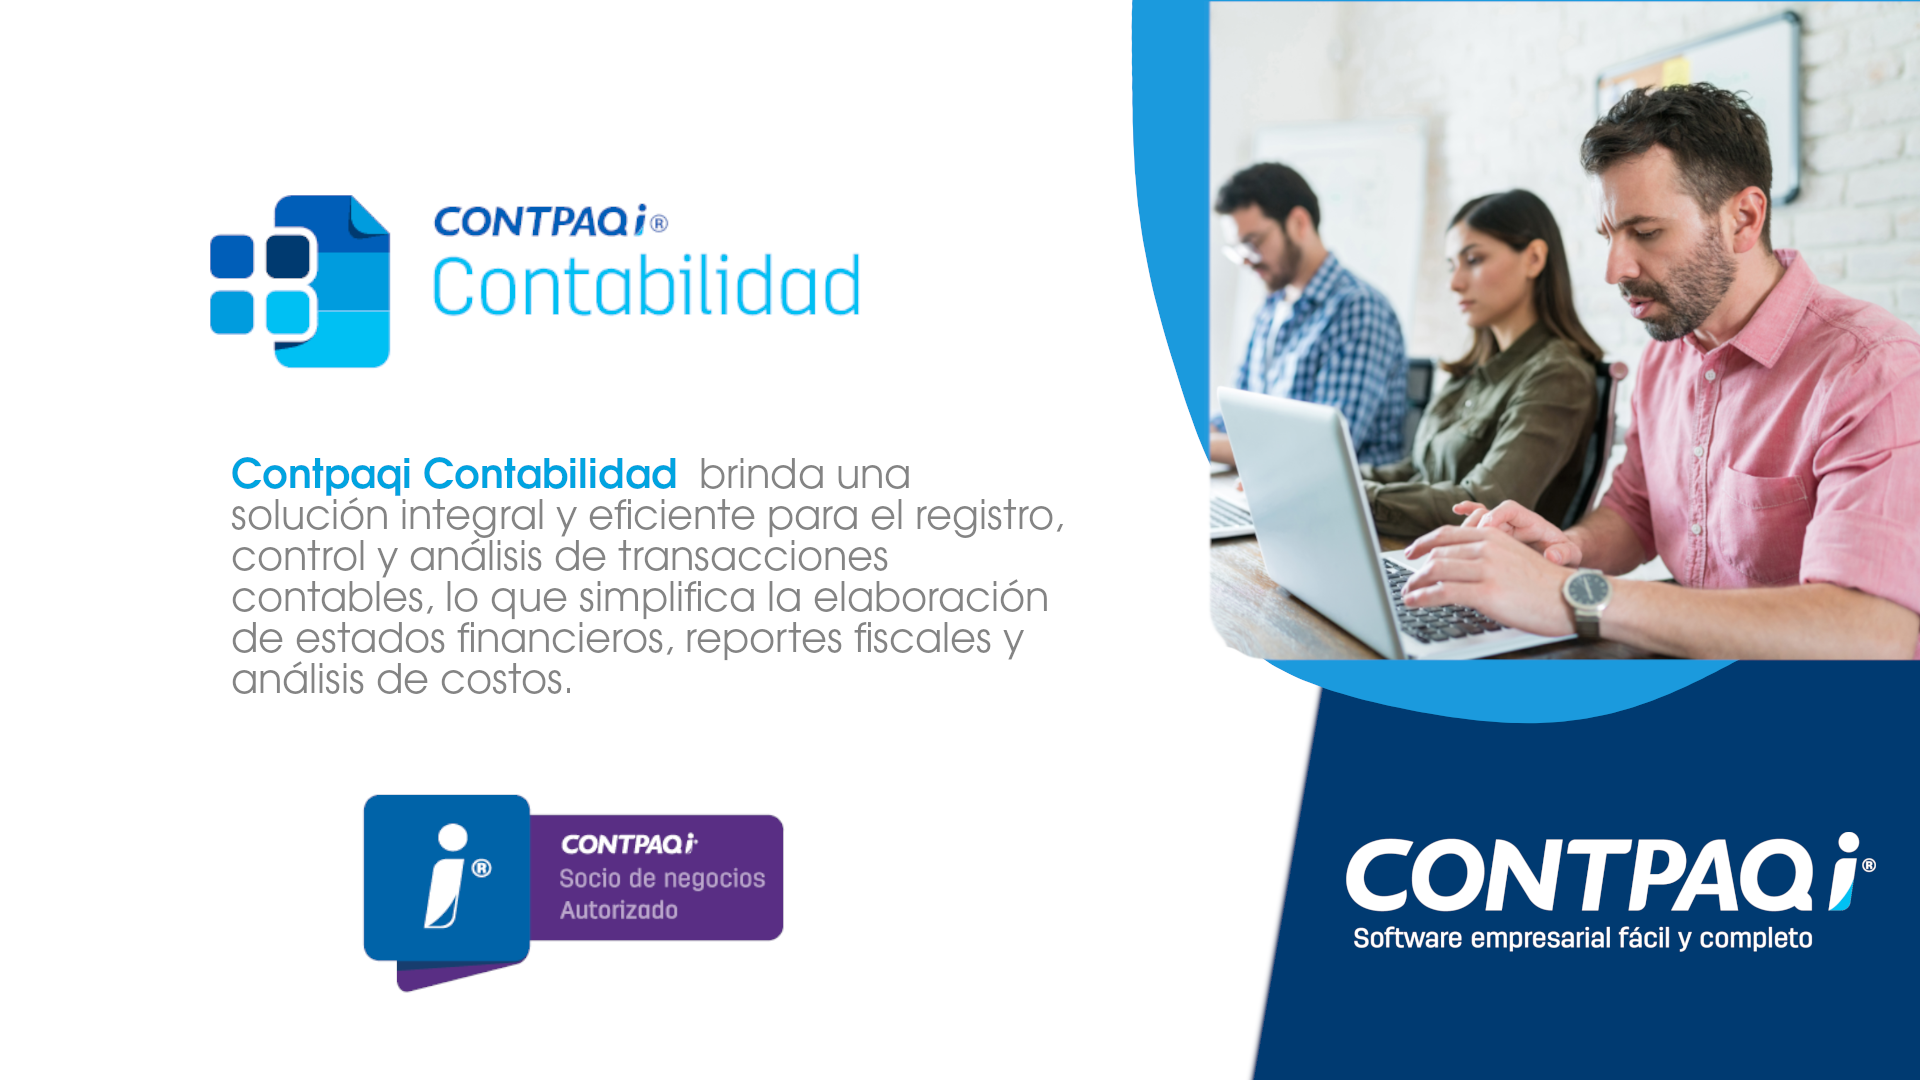
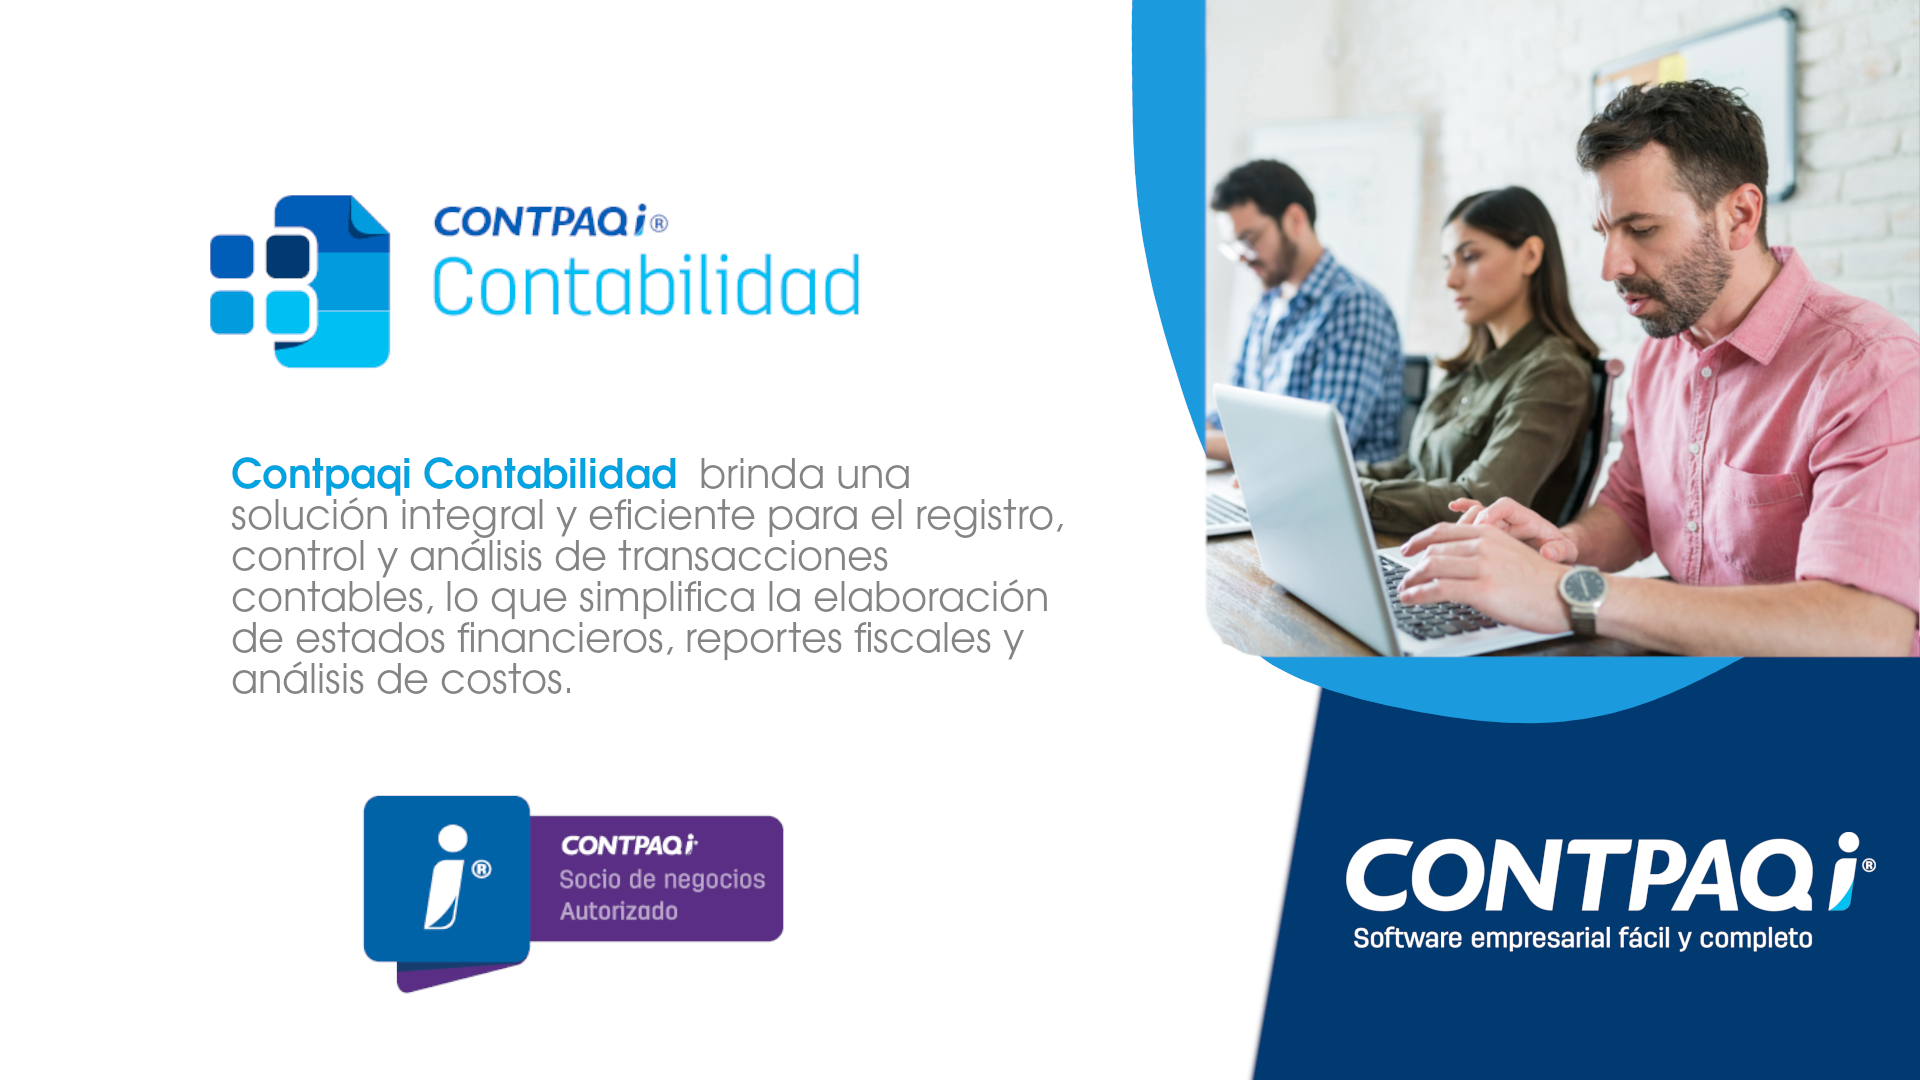
Inseta relleno para imagen

diff --git a/css/productos.css b/css/productos.css
@@ -17,3 +17,7 @@
     height: auto;
     padding: auto;
 }
+
+.relleno-img {
+    padding: 0px 100px;
+}

diff --git a/softwareContpaqi.php b/softwareContpaqi.php
@@ -13,9 +13,11 @@
         <?php
             require "main/header.php";
         ?>
-        <img src="/img/contabilidad_folleto.png" alt="">
         <section>
             <div class="container-fluid">
+                <div class="row relleno-img">
+                    <img src="/img/contabilidad_folleto.png" alt="Contabilidad - Contpaqi" class="img-fluid">
+                </div>
     
                 <?php
                     require "main/redes.php";
